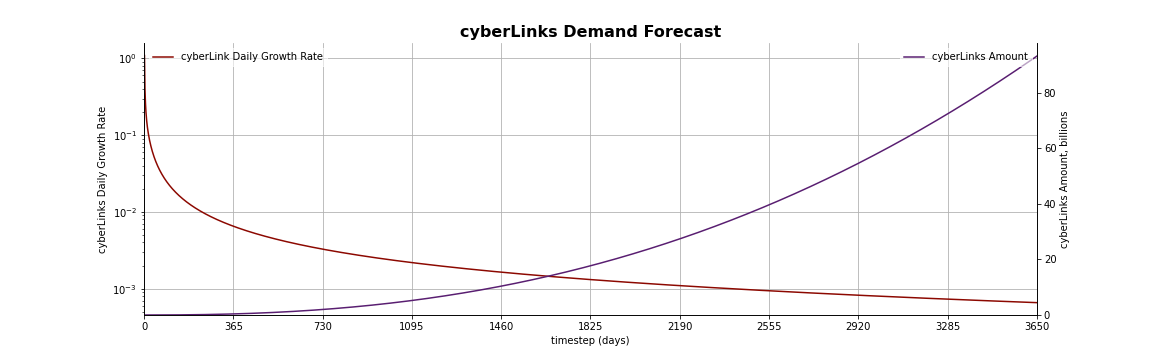
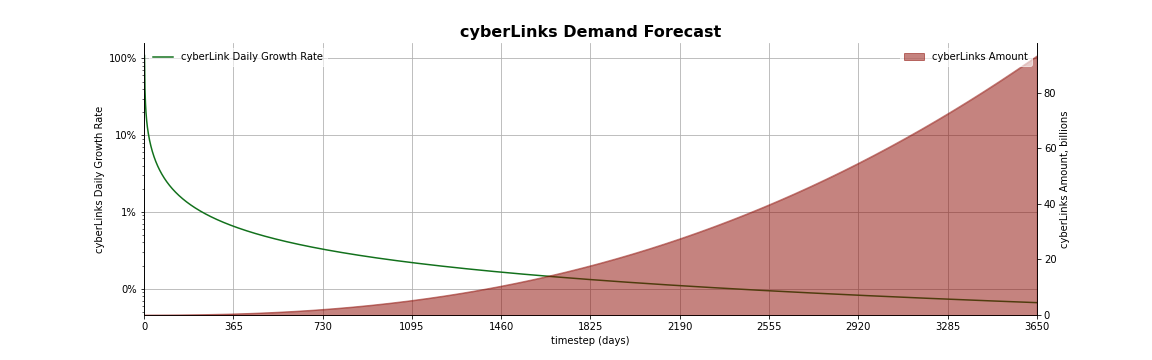
- Update plots

diff --git a/bostrom/utils/plots.py b/bostrom/utils/plots.py
@@ -1,7 +1,7 @@
 import pandas as pd
 import seaborn as sns
 import matplotlib.pyplot as plt
-from matplotlib.ticker import FixedLocator, FuncFormatter
+from matplotlib.ticker import FixedLocator, FuncFormatter, PercentFormatter
 from matplotlib import axes
 
 IMAGES_PATH = './images/'
@@ -13,7 +13,8 @@ XLABEL = 'timestep (days)'
 
 def rename_column(column: str) -> str:
     return column. \
-                replace('cyberlinks_per_day', 'cyberlinks_demand'). \
+                replace('cyberlinks_per_day', 'daily_cyberlinks_demand'). \
+                replace('validator_revenue,_eth', 'daily_validator_revenue,_eth'). \
                 replace('_', ' ').title(). \
                 replace('Cyberlink', 'cyberLink'). \
                 replace('Count', 'Amount'). \
@@ -51,7 +52,6 @@ def prepare_df(df: pd.DataFrame, a_v_ratio: float = 0.5, growth_rate_period: int
     df['agents_count'] = df['agents_count'] / 1e6
     df['gpu_memory_usage'] = df['gpu_memory_usage'] / 1e9
     df['daily_cyberlinks_supply'] = df['volt_supply']
-    df['daily_cyberlinks_per_day'] = df['cyberlinks_per_day']
 
     df['agents_daily_growth_rate'] = df['agents_count'].pct_change(periods=growth_rate_period)
     df['cyberlink_daily_growth_rate'] = df['cyberlinks_count'].pct_change(periods=growth_rate_period)
@@ -62,16 +62,19 @@ def prepare_df(df: pd.DataFrame, a_v_ratio: float = 0.5, growth_rate_period: int
     df['validator_revenue,_eth'] = df['validator_revenue_gboot'] * df['gboot_price']
 
     rename_columns_dict = {item: rename_column(item) for item in df.columns
-                           if item not in ('simulation', 'subset', 'run', 'substep', 'timestep')}
+                           if item not in ('simulation', 'subset', 'run', 'substep', 'timestep',
+                                           'validator_revenue_gboot')}
     df.rename(columns=rename_columns_dict)
     return df.rename(columns=rename_columns_dict)
 
 
 def get_colors(df: pd.DataFrame, sns_style: str = 'dark'):
     columns = [column for column in df.columns.sort_values()
-               if column not in ('simulation', 'subset', 'run', 'substep', 'timestep')]
-    colors = list(sns.color_palette(palette=sns_style, n_colors=len(columns)).as_hex())
-    return {column: color for column, color in zip(columns, colors)}
+               if column not in ('simulation', 'subset', 'run', 'substep', 'timestep', 'validator_revenue_gboot')]
+    colors_list = list(sns.color_palette(palette=sns_style, n_colors=len(columns)).as_hex())
+    colors_dict = {column: color for column, color in zip(columns, colors_list)}
+    colors_dict['BOOT Inflation Rate'] = '#000000'
+    return colors_dict
 
 
 def set_axis(ax: axes, ylabel: str, ylogscale: bool, ymin: float, ymax:float, ymax_value: float,
@@ -79,7 +82,8 @@ def set_axis(ax: axes, ylabel: str, ylogscale: bool, ymin: float, ymax:float, ym
     ax.spines['top'].set_visible(False)
     ax.set(ylabel=ylabel)
     ax.set_ylim(top=ymax)
-    legend = ax.legend(loc=legend_loc)
+    handles, labels = ax.get_legend_handles_labels()
+    legend = ax.legend(reversed(handles), reversed(labels), loc=legend_loc)
     legend.get_frame().set_facecolor('#FFFFFF')
     legend.get_frame().set_alpha(0.6)
     if not ylogscale:
@@ -91,6 +95,9 @@ def set_axis(ax: axes, ylabel: str, ylogscale: bool, ymin: float, ymax:float, ym
             ticks_loc = ax.get_yticks()
             ax.yaxis.set_major_locator(FixedLocator(ticks_loc))
             ax.set_yticklabels(['{:,.0%}'.format(x) for x in ticks_loc])
+    else:
+        if ypercent:
+            ax.yaxis.set_major_formatter(PercentFormatter(1))
     return ax
 
 
@@ -100,7 +107,7 @@ def plot(df: pd.DataFrame, title: str,
          ypercent_1: bool = False, ypercent_2: bool = False,
          ylogscale_1: bool = False, ylogscale_2: bool = False,
          columns_2=None,
-         type_1: str = 'area',
+         type_1: str = 'area', type_2: str = 'line',
          ymin_1: float = 0, ymin_2: float = 0,
          ymax_1=None, ymax_2=None,
          figsize: tuple = FIGSIZE):
@@ -110,8 +117,8 @@ def plot(df: pd.DataFrame, title: str,
     plt.rcParams["figure.facecolor"] = '#FFFFFF'
     plt.rcParams["legend.facecolor"] = '#FFFFFF'
     plt.rcParams["legend.edgecolor"] = '#FFFFFF'
-    if type_1 == 'area':
-        ax1 = df.plot.area(y=columns_1, xticks=XTICKS, grid=True, style=color_style, linewidth=0,  alpha=0.7)
+    if type_1 == 'area' and ylogscale_1 is False:
+        ax1 = df.plot.area(y=columns_1, xticks=XTICKS, grid=True, style=color_style, linewidth=1,  alpha=0.7)
     else:
         ax1 = df.plot.line(y=columns_1, xticks=XTICKS, grid=True, style=color_style, logy=ylogscale_1)
     ax1.set(xlabel=XLABEL)
@@ -121,9 +128,11 @@ def plot(df: pd.DataFrame, title: str,
     if ylabel_2:
         columns_2 = list(map(rename_column, columns_2))
         ax2 = ax1.twinx()
-        df.plot.line(ax=ax2, y=columns_2, xticks=XTICKS, grid=True, style=color_style, logy=ylogscale_2)
+        if type_2 == 'area' and ylogscale_2 is False:
+            df.plot.area(ax=ax2, y=columns_2, xticks=XTICKS, grid=False, style=color_style, linewidth=1, alpha=0.5)
+        else:
+            df.plot.line(ax=ax2, y=columns_2, xticks=XTICKS, grid=False, style=color_style, logy=ylogscale_2)
         ax2.spines['right'].set_position(('axes', 1.0))
-        ax2.grid(None)
         ax2 = set_axis(ax=ax2, ylabel=ylabel_2, ylogscale=ylogscale_2, ymin=ymin_2, ymax=ymax_2,
                        ymax_value=df[columns_2].max().max(), ypercent=ypercent_2, legend_loc='upper right')
     else:
@@ -155,12 +164,14 @@ def hydrogen_supply_plot(df: pd.DataFrame, title: str = 'H Supply', figsize: tup
 def agents_count_plot(df: pd.DataFrame, title: str = 'Neurons Forecast', figsize: tuple = FIGSIZE):
     plot(df=df,
          title=title,
-         columns_2=['agents_count'],
-         type_1='line',
          columns_1=['agents_daily_growth_rate'],
-         ylabel_2='Neurons Amount, millions',
+         columns_2=['agents_count'],
          ylabel_1='Neurons Daily Growth Rate',
+         ylabel_2='Neurons Amount, millions',
+         type_1='line',
+         type_2='area',
          ylogscale_1=True,
+         ypercent_1=True,
          figsize=figsize)
 
 
@@ -174,6 +185,7 @@ def capitalization_plot(df: pd.DataFrame, title: str = 'BOOT Capitalization',
          ylabel_2='BOOT Capitalization, ETH',
          ylogscale_1=True,
          type_1='line',
+         type_2='area',
          figsize=figsize)
 
 
@@ -183,7 +195,7 @@ def gboot_price_plot(df: pd.DataFrame, title: str = 'Validators Revenue', figsiz
          columns_1=['gboot_price'],
          columns_2=['validator_revenue,_eth'],
          ylabel_1='GBOOT Price, ETH',
-         ylabel_2='Validators Revenue, ETH',
+         ylabel_2='Daily Validators Revenue, ETH',
          type_1='line',
          figsize=figsize)
 
@@ -191,7 +203,7 @@ def gboot_price_plot(df: pd.DataFrame, title: str = 'Validators Revenue', figsiz
 def cyberlinks_per_day_plot(df: pd.DataFrame, title: str = 'Demand and Supply of cyberLinks', figsize: tuple = FIGSIZE):
     plot(df=df,
          title=title,
-         columns_1=['daily_cyberlinks_per_day', 'daily_cyberlinks_supply'],
+         columns_1=['cyberlinks_per_day', 'daily_cyberlinks_supply'],
          ylabel_1='Daily cyberLinks Demand | Supply, millions',
          type_1='line',
          figsize=figsize)
@@ -200,22 +212,26 @@ def cyberlinks_per_day_plot(df: pd.DataFrame, title: str = 'Demand and Supply of
 def cyberlinks_count_plot(df: pd.DataFrame, title: str = 'cyberLinks Demand Forecast', figsize: tuple = FIGSIZE):
     plot(df=df,
          title=title,
-         columns_2=['cyberlinks_count'],
          columns_1=['cyberlink_daily_growth_rate'],
-         ylabel_2='cyberLinks Amount, billions',
+         columns_2=['cyberlinks_count'],
          ylabel_1='cyberLinks Daily Growth Rate',
+         ylabel_2='cyberLinks Amount, billions',
          ylogscale_1=True,
+         ypercent_1=True,
          type_1='line',
+         type_2='area',
          figsize=figsize)
 
 
 def ampere_supply_plot(df: pd.DataFrame, title: str = 'A Supply', figsize: tuple = FIGSIZE):
     plot(df=df,
          title=title,
-         columns_1=['ampere_supply'],
-         ylabel_1='A Supply, millions',
-         columns_2=['ampere_minted_amount'],
-         ylabel_2='Minted A, millions',
+         columns_1=['ampere_minted_amount'],
+         columns_2=['ampere_supply'],
+         ylabel_1='Minted A, millions',
+         ylabel_2='A Supply, millions',
+         type_1='line',
+         type_2='area',
          figsize=figsize)
 
 
@@ -234,10 +250,12 @@ def ampere_mint_rate_plot(df: pd.DataFrame, title: str = 'A Halving Cycles', fig
 def volt_supply_plot(df: pd.DataFrame, title: str = 'V Supply', figsize: tuple = FIGSIZE):
     plot(df=df,
          title=title,
-         columns_1=['volt_supply'],
-         ylabel_1='V Supply, millions',
-         columns_2=['volt_minted_amount'],
-         ylabel_2='Minted V, millions',
+         columns_1=['volt_minted_amount'],
+         columns_2=['volt_supply'],
+         ylabel_1='Minted V, millions',
+         ylabel_2='V Supply, millions',
+         type_1='line',
+         type_2='area',
          figsize=figsize)
 
 
